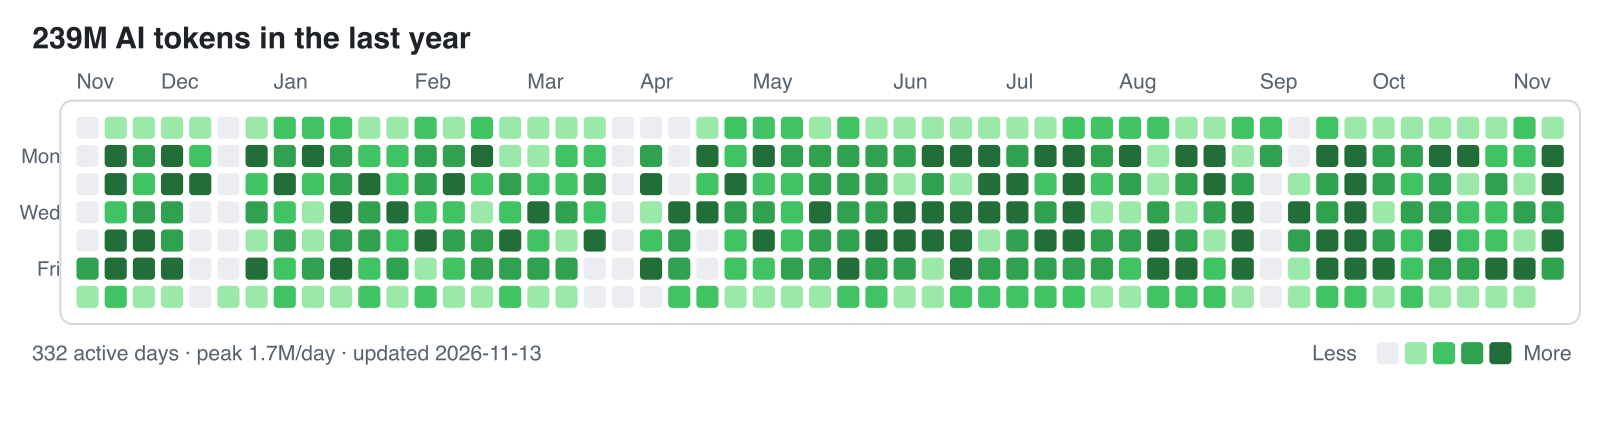
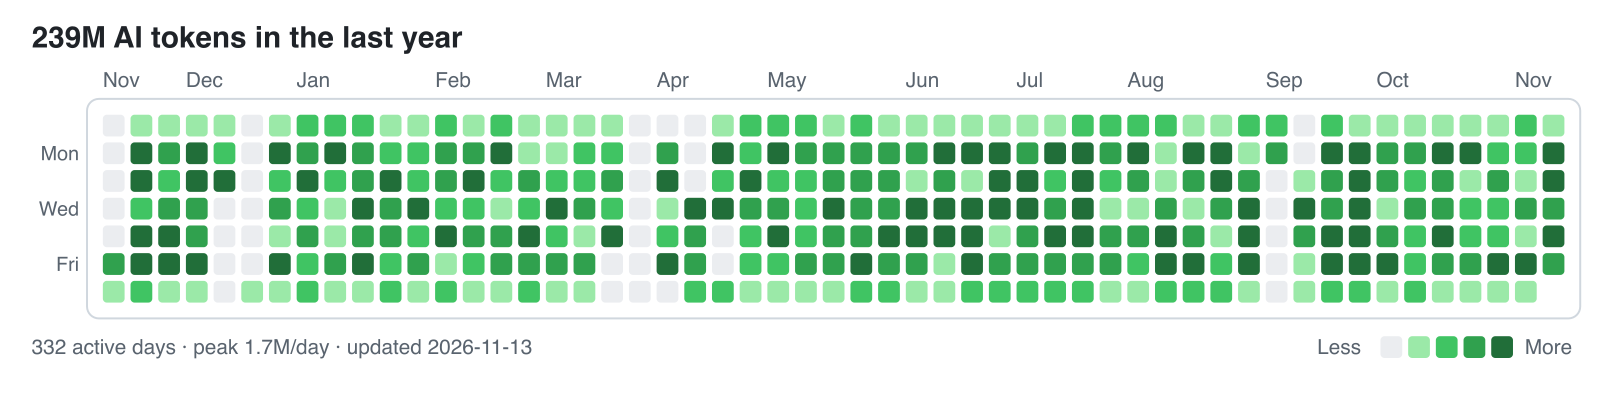
fix(svg): widen the left gutter so weekday labels breathe

diff --git a/src/svg.js b/src/svg.js
@@ -8,7 +8,7 @@ import { formatTokens } from './format.js'
 const CELL = 11
 const GAP = 3
 const PITCH = CELL + GAP
-const LEFT = 38
+const LEFT = 52
 const TOP = 58
 const GRID_WIDTH = 53 * PITCH - GAP
 const GRID_HEIGHT = 7 * PITCH - GAP
@@ -62,7 +62,7 @@ export function renderSvg(grid, { theme = 'light', title, note }) {
     const label = WEEKDAYS[weekday]
     if (label === '') continue
     parts.push(
-      `<text x="${LEFT - 8}" y="${TOP + weekday * PITCH + 9}" text-anchor="end" font-family="${FONT}" font-size="10" fill="${palette.muted}">${label}</text>`,
+      `<text x="${LEFT - 12}" y="${TOP + weekday * PITCH + 9}" text-anchor="end" font-family="${FONT}" font-size="10" fill="${palette.muted}">${label}</text>`,
     )
   }
 
